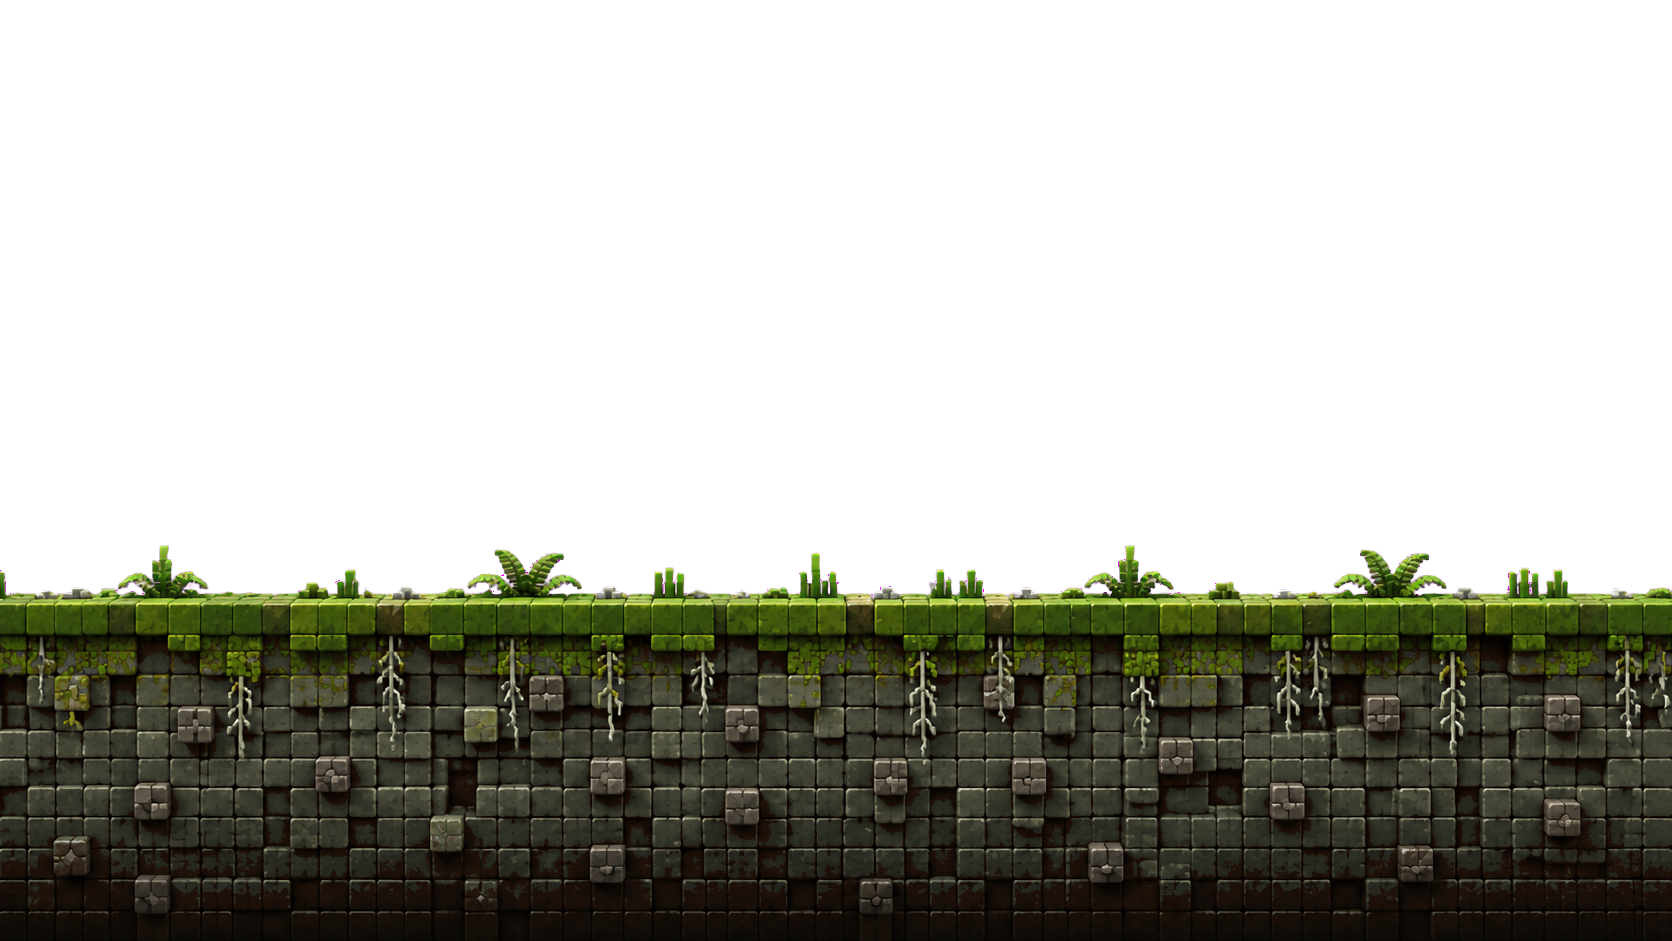
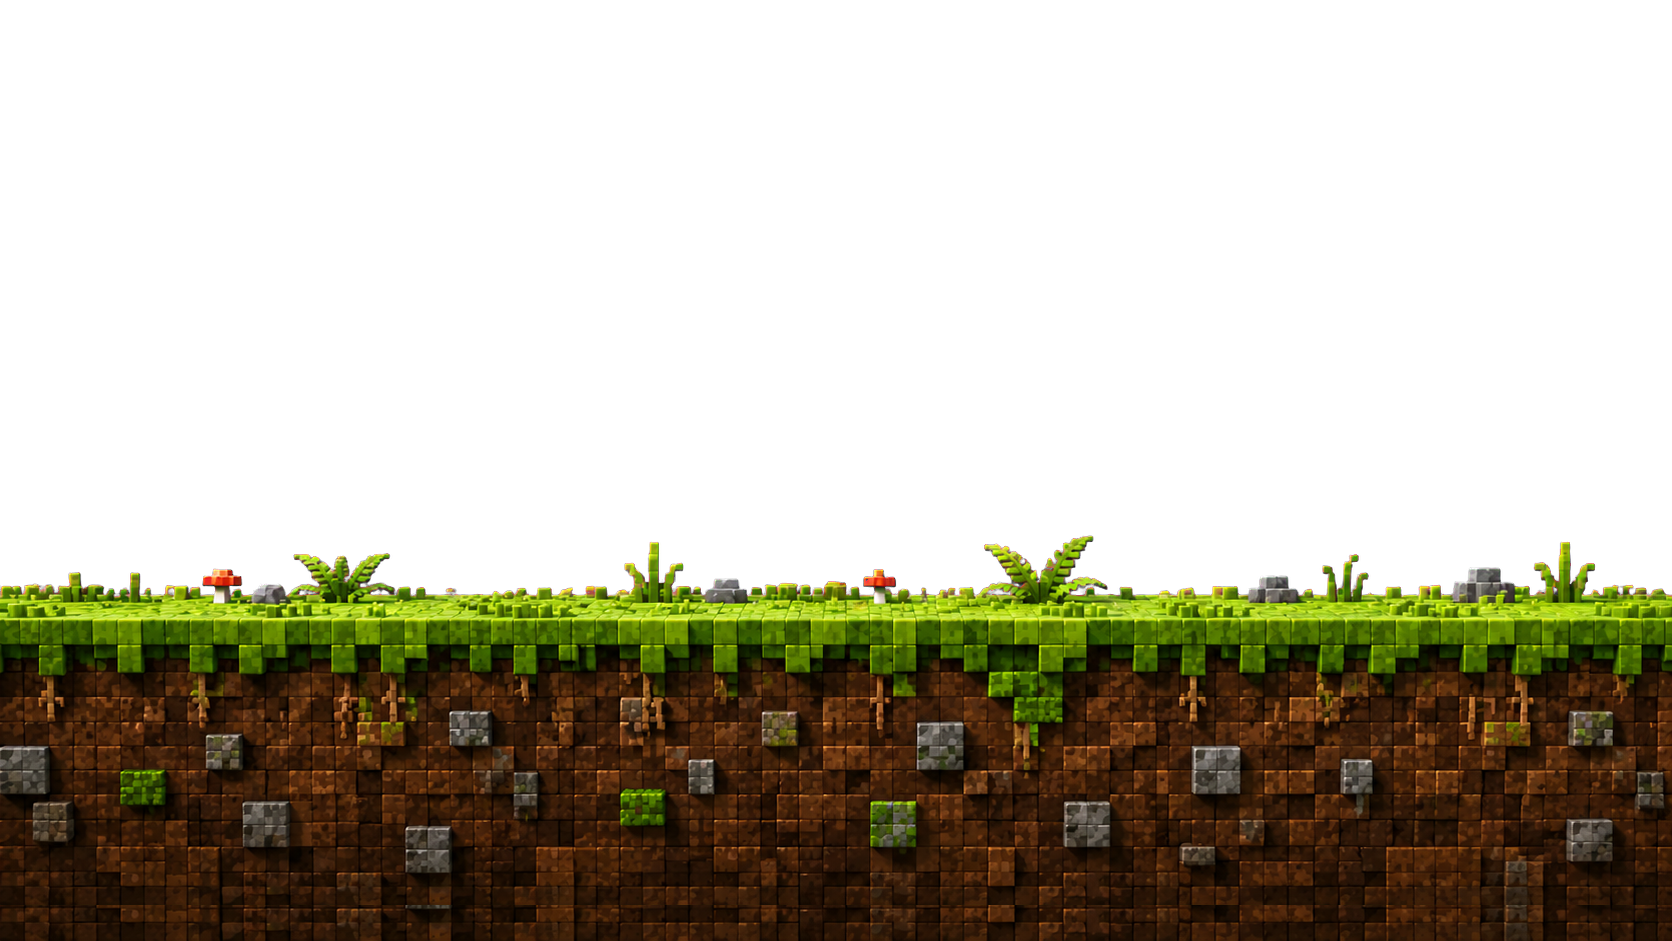
Replace forest ground texture

diff --git a/index.html b/index.html
@@ -9,7 +9,7 @@
   <link rel="stylesheet" href="styles.css?v=67" />
 </head>
 <body class="menu-open">
-  <span class="app-version" aria-label="Версия приложения">v0.15.38</span>
+  <span class="app-version" aria-label="Версия приложения">v0.15.39</span>
   <main class="game-shell" aria-label="Игра Динозаврик">
     <header class="topbar">
       <button id="pauseButton" class="icon-button" type="button" aria-label="Поставить игру на паузу">
@@ -281,6 +281,6 @@
   </main>
   <script src="telegram.js?v=8"></script>
   <script src="cloud-sync.js?v=8"></script>
-  <script src="game.js?v=76"></script>
+  <script src="game.js?v=77"></script>
 </body>
 </html>

diff --git a/game.js b/game.js
@@ -126,7 +126,7 @@
   groundTexture.src = 'assets/desert-ground.png';
   groundTexture.addEventListener('load', draw);
   const forestGroundTexture = new Image();
-  forestGroundTexture.src = 'assets/forest-ground.png';
+  forestGroundTexture.src = 'assets/forest-ground.png?v=2';
   forestGroundTexture.addEventListener('load', draw);
   const daySkyTexture = new Image();
   daySkyTexture.src = 'assets/desert-sky-day.png';
